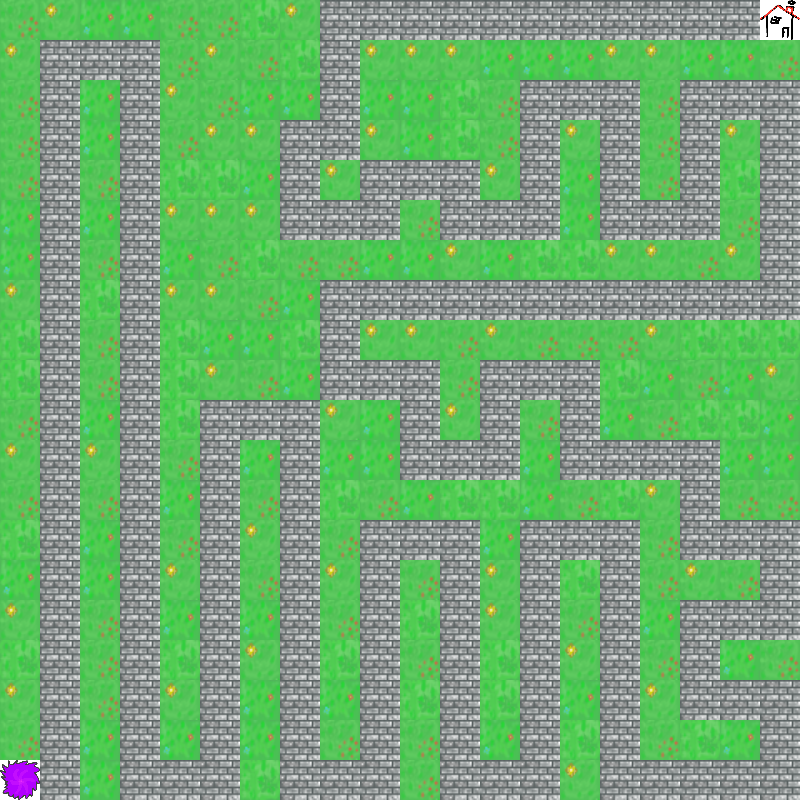
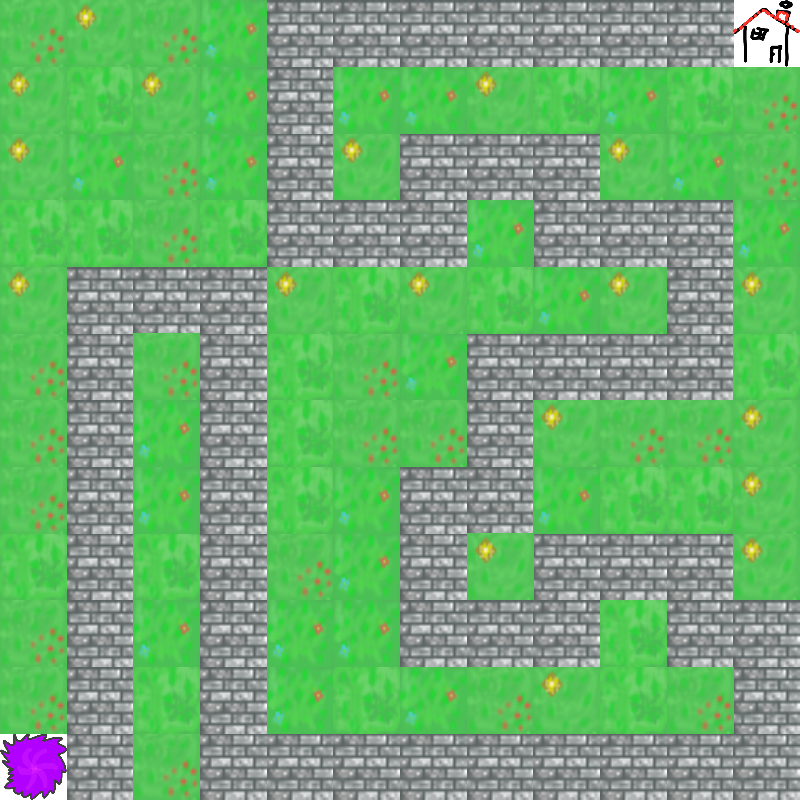
tabs dans la fonction

diff --git a/src/warcraftTD/World.java b/src/warcraftTD/World.java
@@ -61,7 +61,7 @@ public class World {
 		// Vous ne devez pas faire pareil, mais ajouter une vague comportant plusieurs
 		// monstres
 		Monster monster = new Zerg(this, new Position(spawn.x, spawn.y));
-		monster.setSpeed(1);
+		monster.setSpeed(0.2);
 		this.monsters.add(monster);
 		lastM = monster;
 	}
@@ -105,8 +105,9 @@ public class World {
 	/**
 	 * Definit le decor du plateau de jeu.
 	 */
-	String[] tabs = {"/images/Garden0.png","/images/Garden1.png", "/images/Garden2.png", "/images/Garden3.png"};
+	
 	public void drawBackground() {
+		String[] tabs = {"/images/Garden0.png","/images/Garden1.png", "/images/Garden2.png", "/images/Garden3.png"};
 		for (int i = 0; i < nbSquareX; i++) {
 			for (int j = 0; j < nbSquareY; j++) {
 				if (board[i][j] >= 4) {
@@ -131,12 +132,13 @@ public class World {
 	public void drawBack() {
 		StdDraw.picture(0.5,0.5, "save.png",1,1);
 	}
+
 	/**
 	 * Initialise le chemin sur la position du point de depart des monstres. Cette
 	 * fonction permet d'afficher une route qui sera differente du decor.
 	 */
-	String[] tabs2 = {"/images/Path1.png","/images/Path2.png", "/images/Path3.png"};
 	public void drawPath() {
+		String[] tabs2 = {"/images/Path1.png","/images/Path2.png", "/images/Path3.png"};
 		// dessin de Board
 		for (int i = 0; i < board.length; i++) {
 			for (int j = 0; j < board[i].length; j++) {
@@ -345,7 +347,6 @@ public class World {
 		StdDraw.setPenColor(StdDraw.BLACK);
 		StdDraw.text(0.06, 0.98, "gold :" + gold);
 		StdDraw.text(0.04, 0.96, "life :" + life);
-
 	}
 
 	public void calculFPS() {

diff --git a/src/warcraftTD/Main.java b/src/warcraftTD/Main.java
@@ -5,8 +5,8 @@ public class Main {
 	public static void main(String[] args) {
 		int width = 800;
 		int height = 800;
-		int nbSquareX = 20;
-		int nbSquareY = 20;	
+		int nbSquareX = 12;
+		int nbSquareY = 12;	
 		
 
 		World world = new World(width, height, nbSquareX, nbSquareY);
